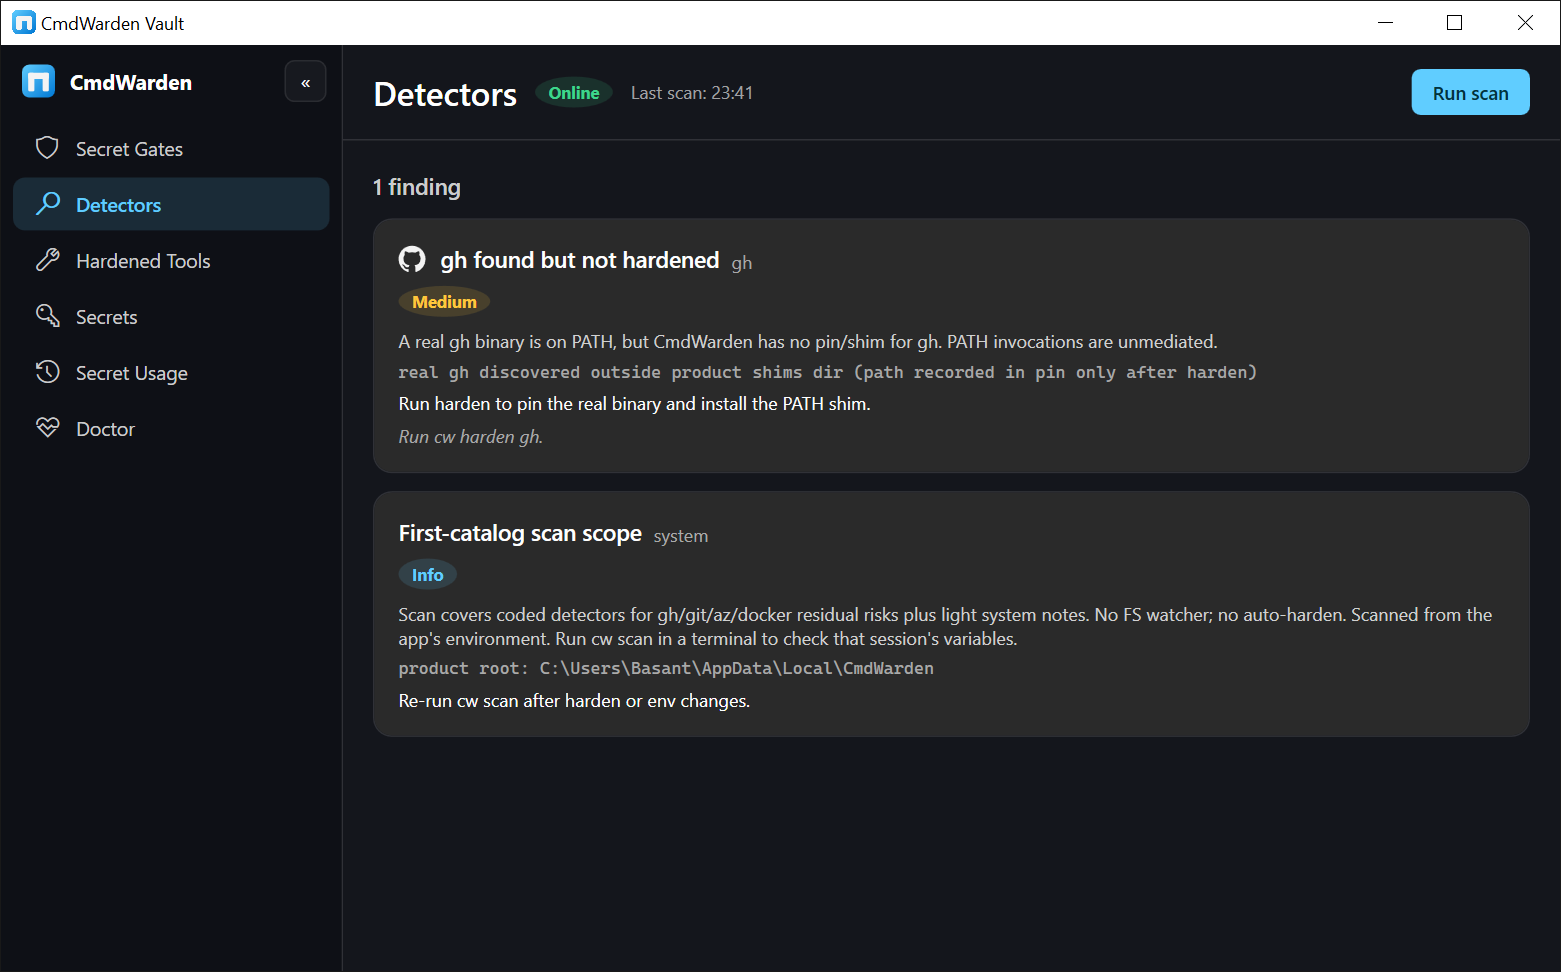
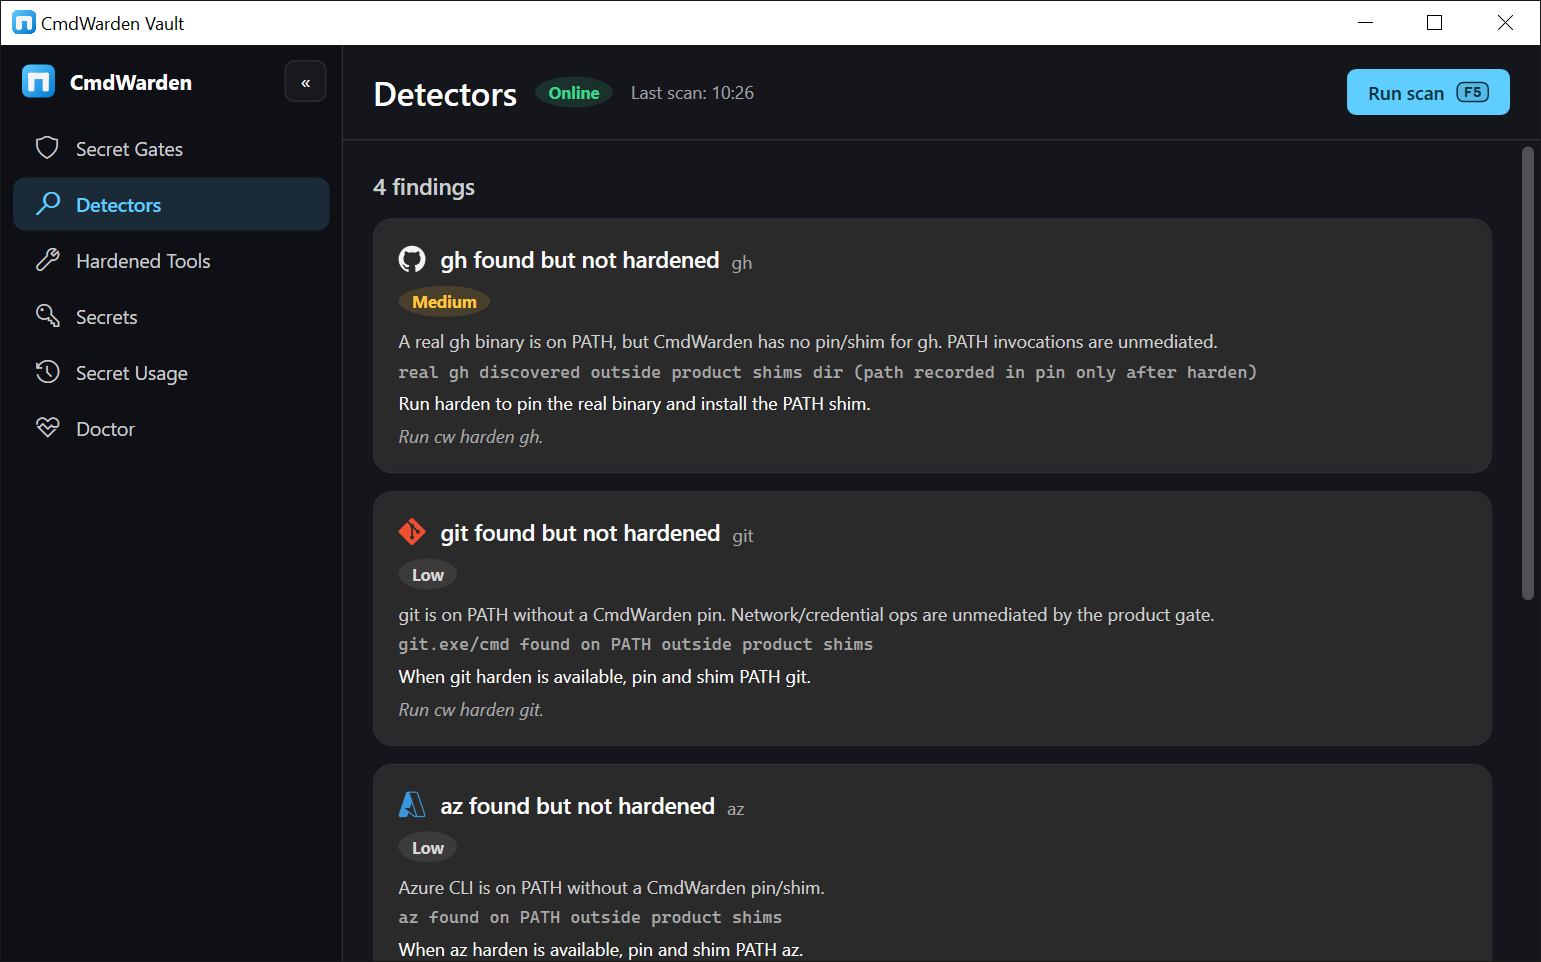
docs: update screenshots for the new keys
scripts/render-ui-shots.ps1 renders the Approval Gate and each Vault page.
It uses demo data in a private folder and pipe, so real data stays out.
The docs list the keys of the Approval Gate and the Vault.

diff --git a/docs/use-cases/approve-secret-read-mid-session.md b/docs/use-cases/approve-secret-read-mid-session.md
@@ -83,12 +83,14 @@ What happens next:
 
 5. You choose:
 
-   | You click | Result in the AI session |
-   |-----------|---------------------------|
-   | **Approve Once** | This read is allowed; the child can use `DEMO_TOKEN`; agent can continue. Later reads of the **same class** for this tool and secret are allowed until the launcher exits or after 60 idle minutes. A higher class prompts again. |
-   | **Allow for session** | This read and every later read of the same class (or lower) for this tool and secret are allowed. The grant ends when the launcher process exits or after 60 idle minutes. The button is hidden for unenrolled launchers. It never covers secret-reveal. |
-   | **Deny** | Release is blocked; agent sees failure / permission denied. |
+   | You click or press | Result in the AI session |
+   |--------------------|---------------------------|
+   | **Approve Once** (**Enter**) | This read is allowed; the child can use `DEMO_TOKEN`; agent can continue. Later reads of the **same class** for this tool and secret are allowed until the launcher exits or after 60 idle minutes. A higher class prompts again. |
+   | **Allow for session** (**A**) | This read and every later read of the same class (or lower) for this tool and secret are allowed. The grant ends when the launcher process exits or after 60 idle minutes. The button is hidden for unenrolled launchers. It never covers secret-reveal. |
+   | **Deny** (**Esc**) | Release is blocked; agent sees failure / permission denied. For 2 minutes, the same launcher gets no new popup for this tool. Each retry is denied at once. |
    | Close the window | Same as unavailable → **fail closed** (block). |
+
+   The popup ignores **Enter** and **A** for the first 600 ms. Thus a key that you type in the terminal cannot approve it by mistake. **Esc** works at all times.
 
    Every decision appears on the **Secret Usage** page of CmdWarden Vault and in `cw audit`. Active session grants appear on the **Secret Gates** page. Revoke one with `cw policy sessions --revoke <id>`.
 

diff --git a/docs/concepts.md b/docs/concepts.md
@@ -16,7 +16,7 @@ CmdWarden has three user surfaces:
 | Surface | What it is | When you see it |
 |---------|------------|-----------------|
 | **`cw` CLI** | Setup and power-user commands | You type them in a terminal |
-| **Approval Gate** | Small desktop card with **Deny** / **Allow for session** / **Approve Once** | Pops up while a gated command waits |
+| **Approval Gate** | Small desktop card with **Deny** (Esc) / **Allow for session** (A) / **Approve Once** (Enter) | Pops up while a gated command waits |
 | **CmdWarden Vault** | Desktop app with six pages: Secret Gates, Detectors, Hardened Tools, Secrets, Secret Usage, Doctor | You open it from the Start Menu |
 
 The [CmdWarden Vault](vault.md) section describes every page. Each use case below names the Vault page that shows the same information.
@@ -30,7 +30,7 @@ The [CmdWarden Vault](vault.md) section describes every page. Each use case belo
 | **Enroll** | Register a launcher as terminal or ai-harness so defaults apply |
 | **Harden** | Opt-in: pin real binary + PATH shim (+ vault token for `gh`) |
 | **Policy level** | Deny / Read / Trusted / Full for a **tool × launcher** pair |
-| **Approval Gate** | Desktop **Deny / Approve Once** card when auto-allow does not apply (appears while the agent tool call waits) |
+| **Approval Gate** | Desktop **Deny / Allow for session / Approve Once** card when auto-allow does not apply (appears while the agent tool call waits) |
 | **Vault** | Secrets in Windows Credential Manager, released only to allowed children |
 | **CmdWarden Vault** | Desktop app (Start Menu) to view gates, detectors, hardened tools, secret names, usage, and doctor |
 | **Session allow** | An Approval Gate grant that lasts until the launcher exits or 60 idle minutes. **Approve Once** grants the one class you saw; **Allow for session** grants that class and every lower one |

diff --git a/docs/vault.md b/docs/vault.md
@@ -17,6 +17,21 @@ Run `cw shortcut install` again after every reinstall of the tool. The shortcuts
 - **Title bar:** page name, a **Session Agent** badge (Up / Agent down), and one primary button (**+ Add secret** on Secrets, **Run scan** on Detectors, **Refresh** elsewhere).
 - **Body:** the page content. Every page is read-only except Secrets.
 
+## Keys
+
+Each button shows its key next to its label.
+
+| Key | Where | Does |
+|-----|-------|------|
+| **F5** | Every page | Refresh the page. On Detectors, run a scan. |
+| **Ctrl+N** | Secrets | Open **Add secret**. |
+| **Down** / **Up** | Secrets | Select the next or the previous card. |
+| **Del** | Secrets | Delete the selected card. A dialog asks you first. |
+| **Esc** | Secrets | Clear the selection. |
+| **[** / **]** | Every page | Collapse or expand the nav. |
+| **Enter** | Add secret, Delete secret | **Save** or **Delete**. |
+| **Esc** | Add secret, Delete secret | **Cancel**. Nothing changes. |
+
 ## Pages
 
 | Page | Shows | CLI twin |
@@ -41,6 +56,18 @@ Run `cw shortcut install` again after every reinstall of the tool. The shortcuts
 **Hardened Tools** - one card per catalog tool with its harden state.
 
 ![Hardened Tools page](images/vault-hardened-tools.png)
+
+**Secrets** - every secret name. Select a card with a click or the arrow keys, then click **Delete** or press **Del**.
+
+![Secrets page](images/vault-secrets.png)
+
+**Add secret** - type a name and a value. Press **Enter** to save or **Esc** to cancel.
+
+![Add secret dialog](images/vault-add-secret.png)
+
+**Delete secret** - press **Enter** to delete or **Esc** to keep the secret.
+
+![Delete secret dialog](images/vault-delete-secret.png)
 
 **Secret Usage** - the newest gate decisions with launcher, tool, secret name, and decision pill.
 

diff --git a/docs/use-cases/vault-add-remove-secrets.md b/docs/use-cases/vault-add-remove-secrets.md
@@ -4,11 +4,16 @@
 
 1. Open **CmdWarden Vault** from the Start Menu or the Desktop icon. If both are missing, run `cw shortcut install --desktop` once.
 2. The app opens on the **Secrets** page. The badge next to the title shows the Session Agent state.
-3. Click **+ Add secret**. Type the **Name** and the **Value**. Click **Save**.
-4. The new name appears as a card. The value is never shown again.
-5. To delete: click the card to select it, then click **Delete** on that card. Confirm with **Delete** in the dialog.
+3. Click **+ Add secret** or press **Ctrl+N**. Type the **Name** and the **Value**. Click **Save** or press **Enter**.
 
-![Secrets page with DEMO_TOKEN and other secret names](../images/vault-secrets.png)
+   ![Add secret dialog with the Esc and Enter keys](../images/vault-add-secret.png)
+
+4. The new name appears as a card. The value is never shown again.
+5. To delete: click the card, or press **Down** / **Up** to select it. Click **Delete** or press **Del**. Press **Enter** to confirm, or **Esc** to keep the secret.
+
+   ![Secrets page with DEMO_TOKEN and other secret names](../images/vault-secrets.png)
+
+   ![Delete secret dialog with the Esc and Enter keys](../images/vault-delete-secret.png)
 
 *Expect:* the same Credential Manager target as `cw save` (`CmdWarden/secret/<NAME>`). The list refreshes on its own every few seconds. A yellow banner **Session Agent not running - actions disabled** means the agent is down; run `cw doctor` in a terminal. A banner that says **denied access** means the agent runs elevated. Stop it from an admin shell, then start it from a normal shell.
 

diff --git a/docs/index.md b/docs/index.md
@@ -59,13 +59,10 @@ Your AI harness runs shell commands. Those commands call `gh`, `git`, `az`, or `
 
 ## Install
 
-```powershell
-git clone https://github.com/BasantPandey/CmdWarden.git
-cd CmdWarden
-powershell -NoProfile -ExecutionPolicy Bypass -File .\scripts\Install-CmdWarden.ps1 -Desktop
-```
+1. Download `CmdWarden.<version>-setup.zip` from the [latest Release](https://github.com/BasantPandey/CmdWarden/releases/latest) and extract it.
+2. Double-click **`install.cmd`**.
 
-The script installs the latest GitHub Release as a global dotnet tool and creates the CmdWarden Vault icons. Other install ways, update, and uninstall: [Install](install.md).
+To remove CmdWarden, open Windows Settings > Apps > **CmdWarden** > **Uninstall**. Other install ways and update: [Install](install.md).
 
 ## First five minutes
 
@@ -85,7 +82,7 @@ Open a new terminal. `gh` now runs through CmdWarden. Your terminal is Trusted. 
 | Surface | What it is | When you see it |
 |---------|------------|-----------------|
 | **`cw` CLI** | Setup and power-user commands | You type them in a terminal |
-| **Approval Gate** | Small desktop card with **Deny** / **Allow for session** / **Approve Once** | Pops up while a gated command waits |
+| **Approval Gate** | Small desktop card with **Deny** (Esc) / **Allow for session** (A) / **Approve Once** (Enter) | Pops up while a gated command waits |
 | **CmdWarden Vault** | Desktop app with six pages: Secret Gates, Detectors, Hardened Tools, Secrets, Secret Usage, Doctor | You open it from the Start Menu |
 
 ![CmdWarden Vault Secret Gates page](images/vault-secret-gates.png)
